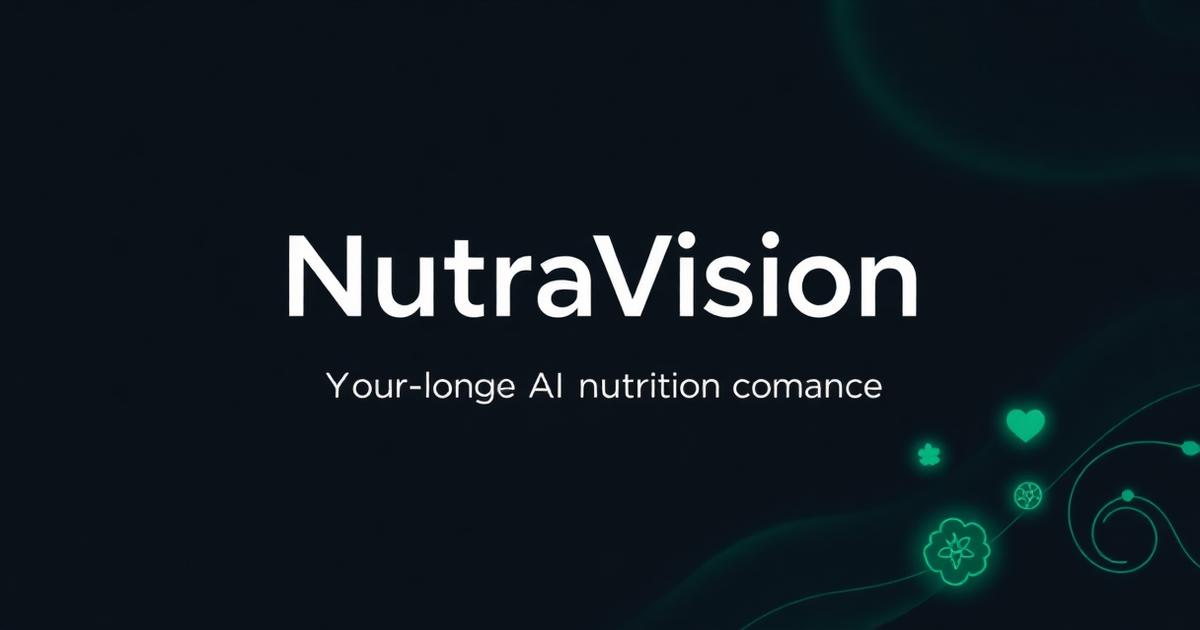
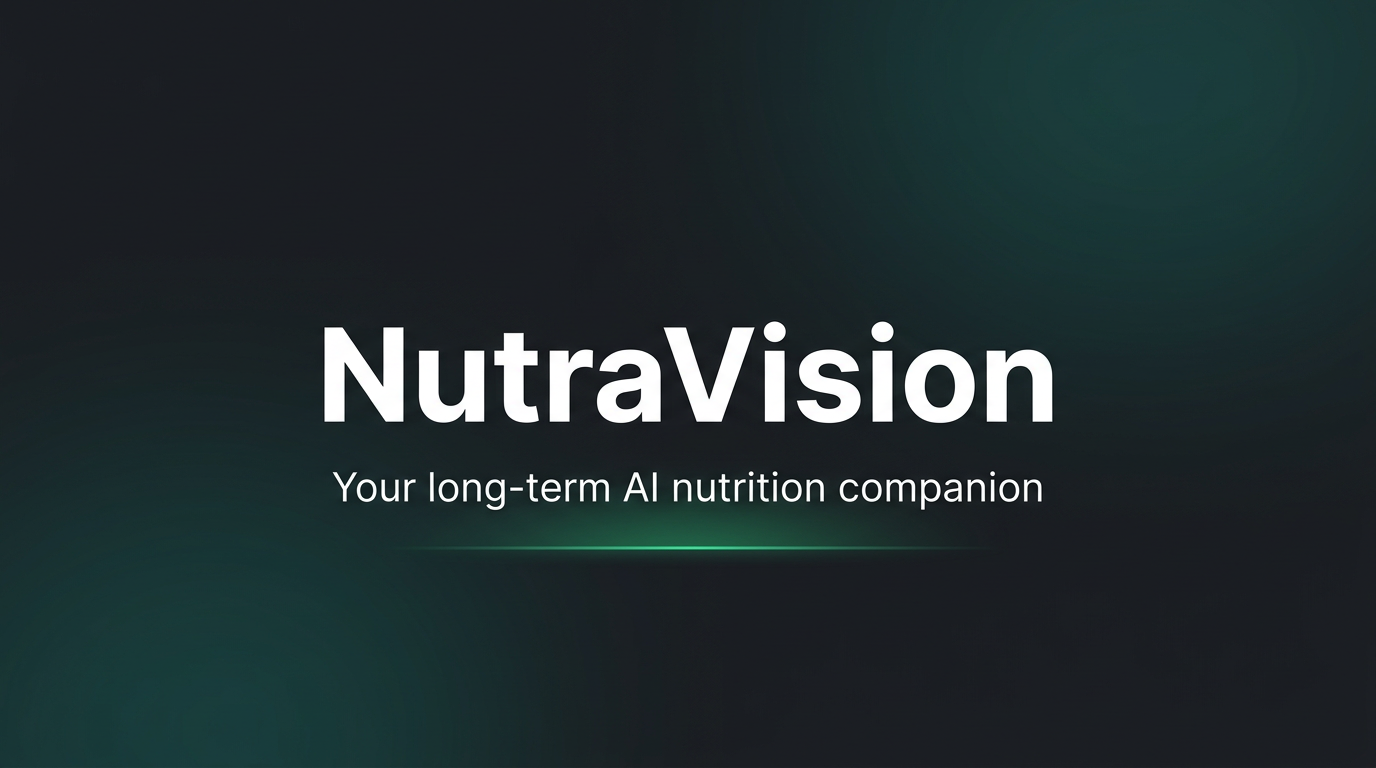
Generated NutraVision OG preview

diff --git a/index.html b/index.html
@@ -8,15 +8,15 @@
     <meta name="description" content="NutraVision: Your long-term AI nutrition companion for tracking calories, macros, and body composition." />
     <meta name="author" content="NutraVision" />
 
-    <!-- TODO: Update og:title to match your application name -->
-    <meta property="og:title" content="Lovable App" />
-    <meta property="og:description" content="Lovable Generated Project" />
+    <meta property="og:title" content="NutraVision – Your AI Nutrition Companion" />
+    <meta property="og:description" content="Your long-term AI nutrition companion for tracking calories, macros, and body composition." />
     <meta property="og:type" content="website" />
-    <meta property="og:image" content="https://lovable.dev/opengraph-image-p98pqg.png" />
+    <meta property="og:image" content="/og-image.jpg" />
 
     <meta name="twitter:card" content="summary_large_image" />
-    <meta name="twitter:site" content="@Lovable" />
-    <meta name="twitter:image" content="https://lovable.dev/opengraph-image-p98pqg.png" />
+    <meta name="twitter:title" content="NutraVision – Your AI Nutrition Companion" />
+    <meta name="twitter:description" content="Your long-term AI nutrition companion for tracking calories, macros, and body composition." />
+    <meta name="twitter:image" content="/og-image.jpg" />
   </head>
 
   <body>
